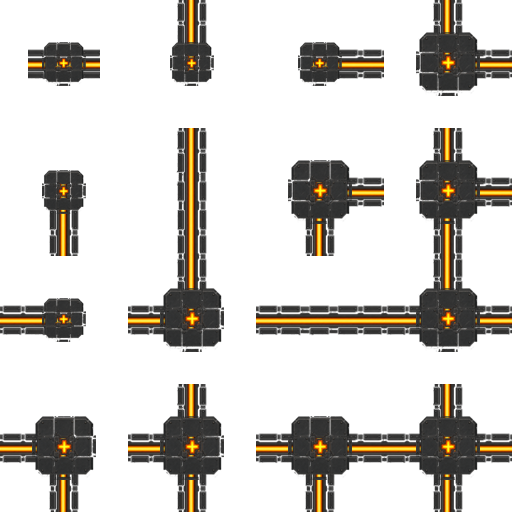
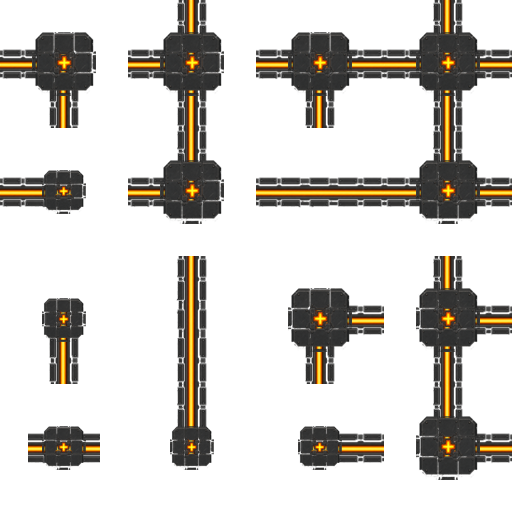
actual conduit fix

diff --git a/Stormproof/CHANGELOG.md b/Stormproof/CHANGELOG.md
@@ -27,6 +27,9 @@ All notable changes to Stormproof are documented here.
 - Regenerated armored conduit as atlas-native pixel art (16-cell linked sheet + segment/menu icon); removed composited segment-stitching approach.
 - Regenerated heavy armored conduit art: riveted segment + junction hub block at L/T/cross bends (matches in-game armored look).
 - Fixed armored conduit atlas seams: wires now drawn as one continuous band per axis (no more plate-pattern restarts or gaps at tile edges); broken junction cells repaired.
+- Fixed armored conduit def: replaced nonexistent `Graphic_LinkedConduit` graphicClass with `Graphic_Single` + `linkType Transmitter` and `Custom1` linkFlags (was crashing map rendering with null-reference errors on every placed conduit).
+- Fixed armored conduit atlas orientation: link cells are sampled with UV origin at the bottom-left of the sheet, so rows are now written bottom-to-top (index 0 at bottom-left). Straight runs previously drew junction-hub cells on every tile.
+- Removed thing categories from the load shedder (not minifiable, caused a config error).
 - Batch alpha-cleaned all Stormproof building PNGs to strip baked white/gray backgrounds and edge halos.
 - Storm spire is now completely fireproof (flammability 0), and any fires ignited by a caught lightning strike within 3 cells of the spire are snuffed out. The spire keeps sweeping the area for 5 seconds after the strike, since the flame explosion expands over several ticks rather than instantly - a grounded rod shouldn't burn your base down.
 - Storm spire surge chance per caught strike lowered from 25% to 5%.

diff --git a/Wellspring/CHANGELOG.md b/Wellspring/CHANGELOG.md
@@ -15,6 +15,11 @@ All notable changes to Wellspring are documented here.
 - Clean bandages: cloth boiled in water, giving 70% potency medicine craftable at the crafting spot or tailor benches.
 - Waterworks research project (medieval) gating the deep well and water tower.
 
+### Fixed
+- Mud bricks: `soundImpactStuff` is not a valid StuffProperties field in RimWorld 1.6; replaced with `soundImpactBullet`.
+- Draw-water recipes now use the `Recipe_CookMeal` working sound (`Recipe_BrewBeer` no longer exists in 1.6).
+- Removed thing categories from non-minifiable buildings (hand-dug well, deep well, water tower, irrigated planter) to clear config errors.
+
 ### Changed
 - Regenerated all five textures (hand-dug well, rain barrel, cistern, water jug, irrigated soil) in the painterly style used by Homesteader and Stormproof; irrigated soil tile upscaled to 512×512.
 - Batch alpha-cleaned all Wellspring PNGs (buildings and items) to strip baked white/gray backgrounds and edge halos. Seamless terrain tiles left untouched; boiled water and clean bandages used conservative cleanup to preserve intentional white subjects.

diff --git a/Homesteader/CHANGELOG.md b/Homesteader/CHANGELOG.md
@@ -13,6 +13,7 @@ All notable changes to Homesteader are documented here.
 - Regenerated flour icon after alpha-clean damaged the white powder surface.
 
 ### Fixed
+- Removed invalid `harvestDestroys` tag from apple, cherry and maple orchard plants (not a PlantProperties field in 1.6; regrowth is already handled by `harvestAfterGrowth`).
 - Bread, porridge, trail stew and hearty stew now inherit from the correct vanilla meal base (`MealBase` instead of the non-inheritable `MealSimple`/`MealFine` defNames), restoring their thingClass, food type, rot ticking and eat sounds/effects.
 - Homestead supplier caravan patch now targets the `OutlanderCivil` def node directly; the old xpath failed because `caravanTraderKinds` only exists on the abstract outlander base def.
 - Homesteaders scenario: corrected the starting pawns config page def name (`ConfigPage_ConfigureStartingPawns`) and added the RimWorld 1.6 `surfaceLayer` block. The scenario now ships as version-specific copies (`1.6` and `Legacy` load folders) so 1.4/1.5 remain supported.
